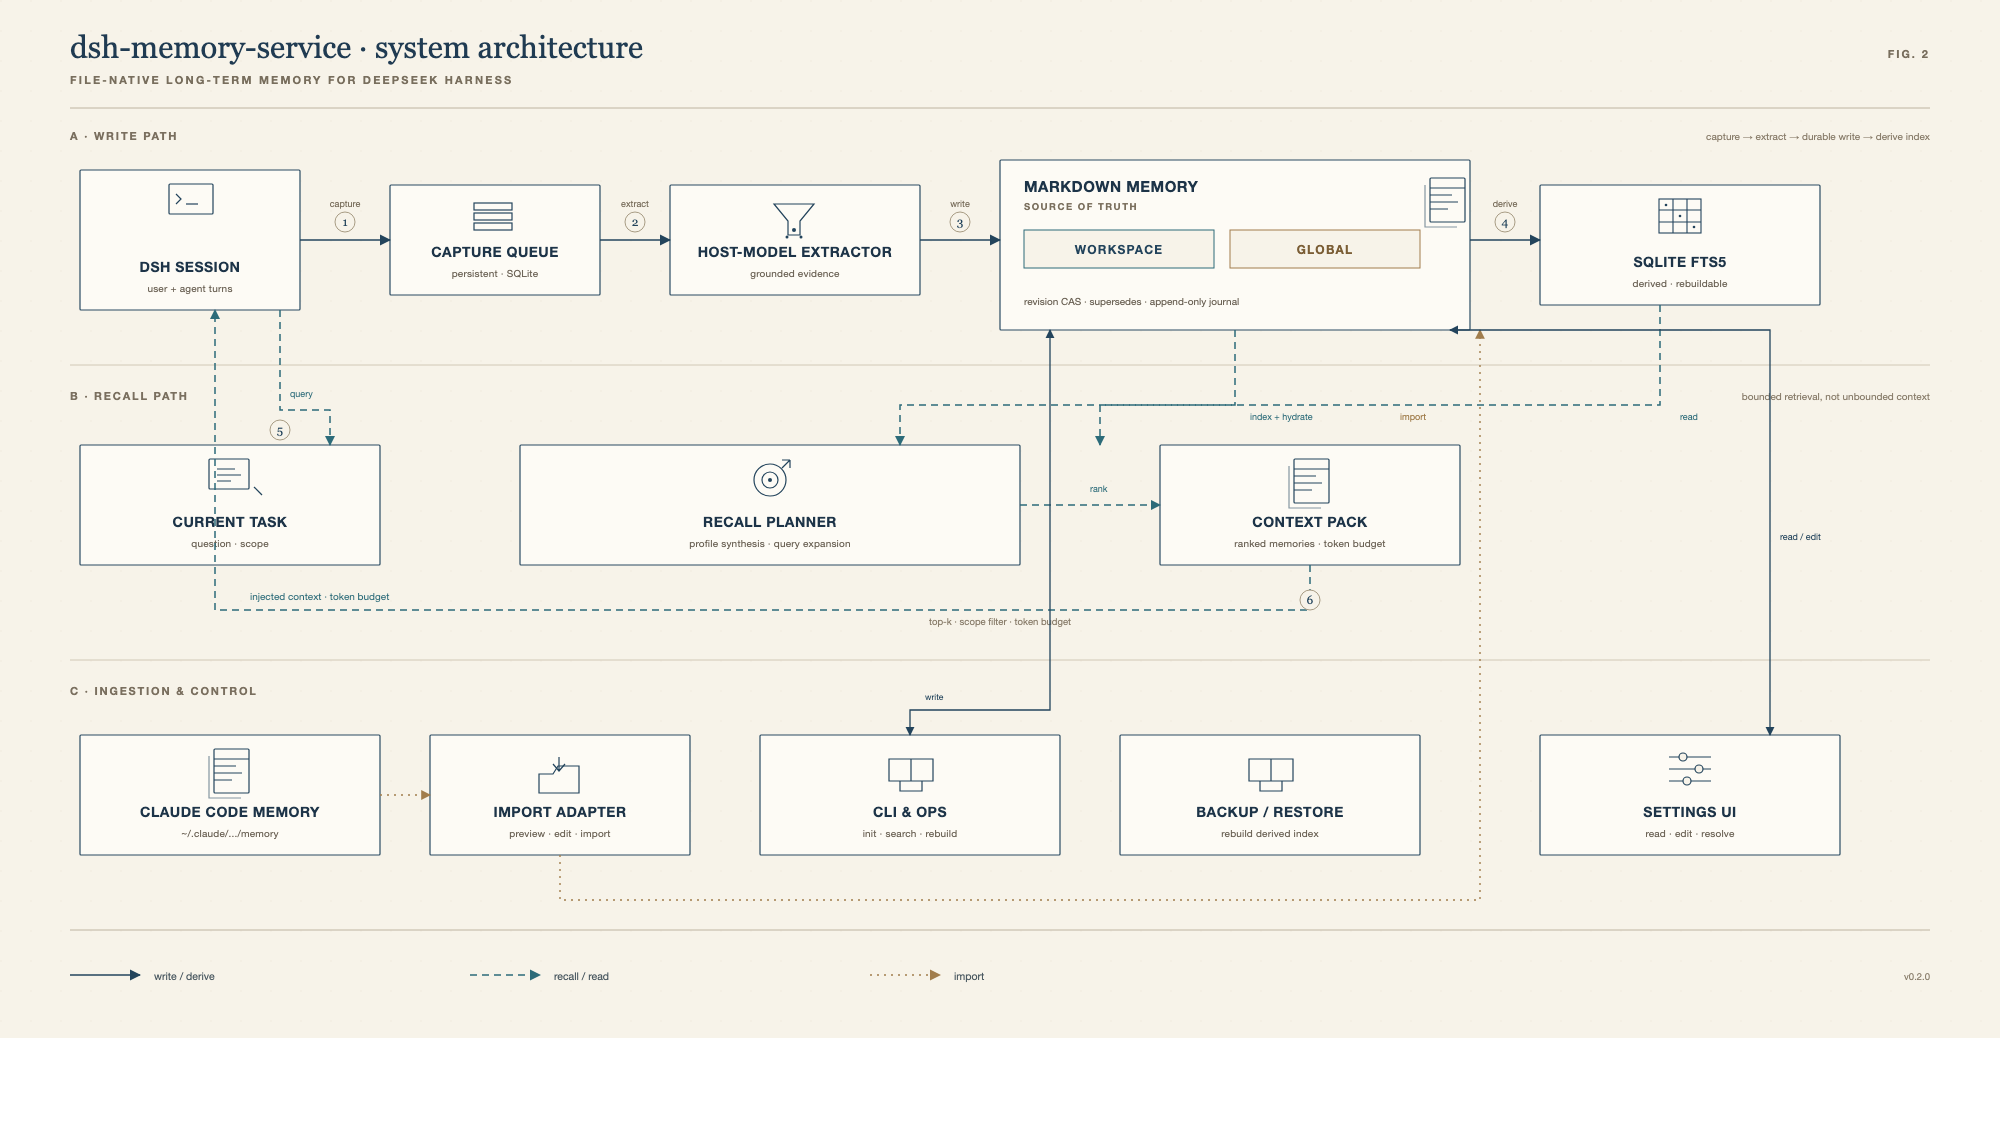
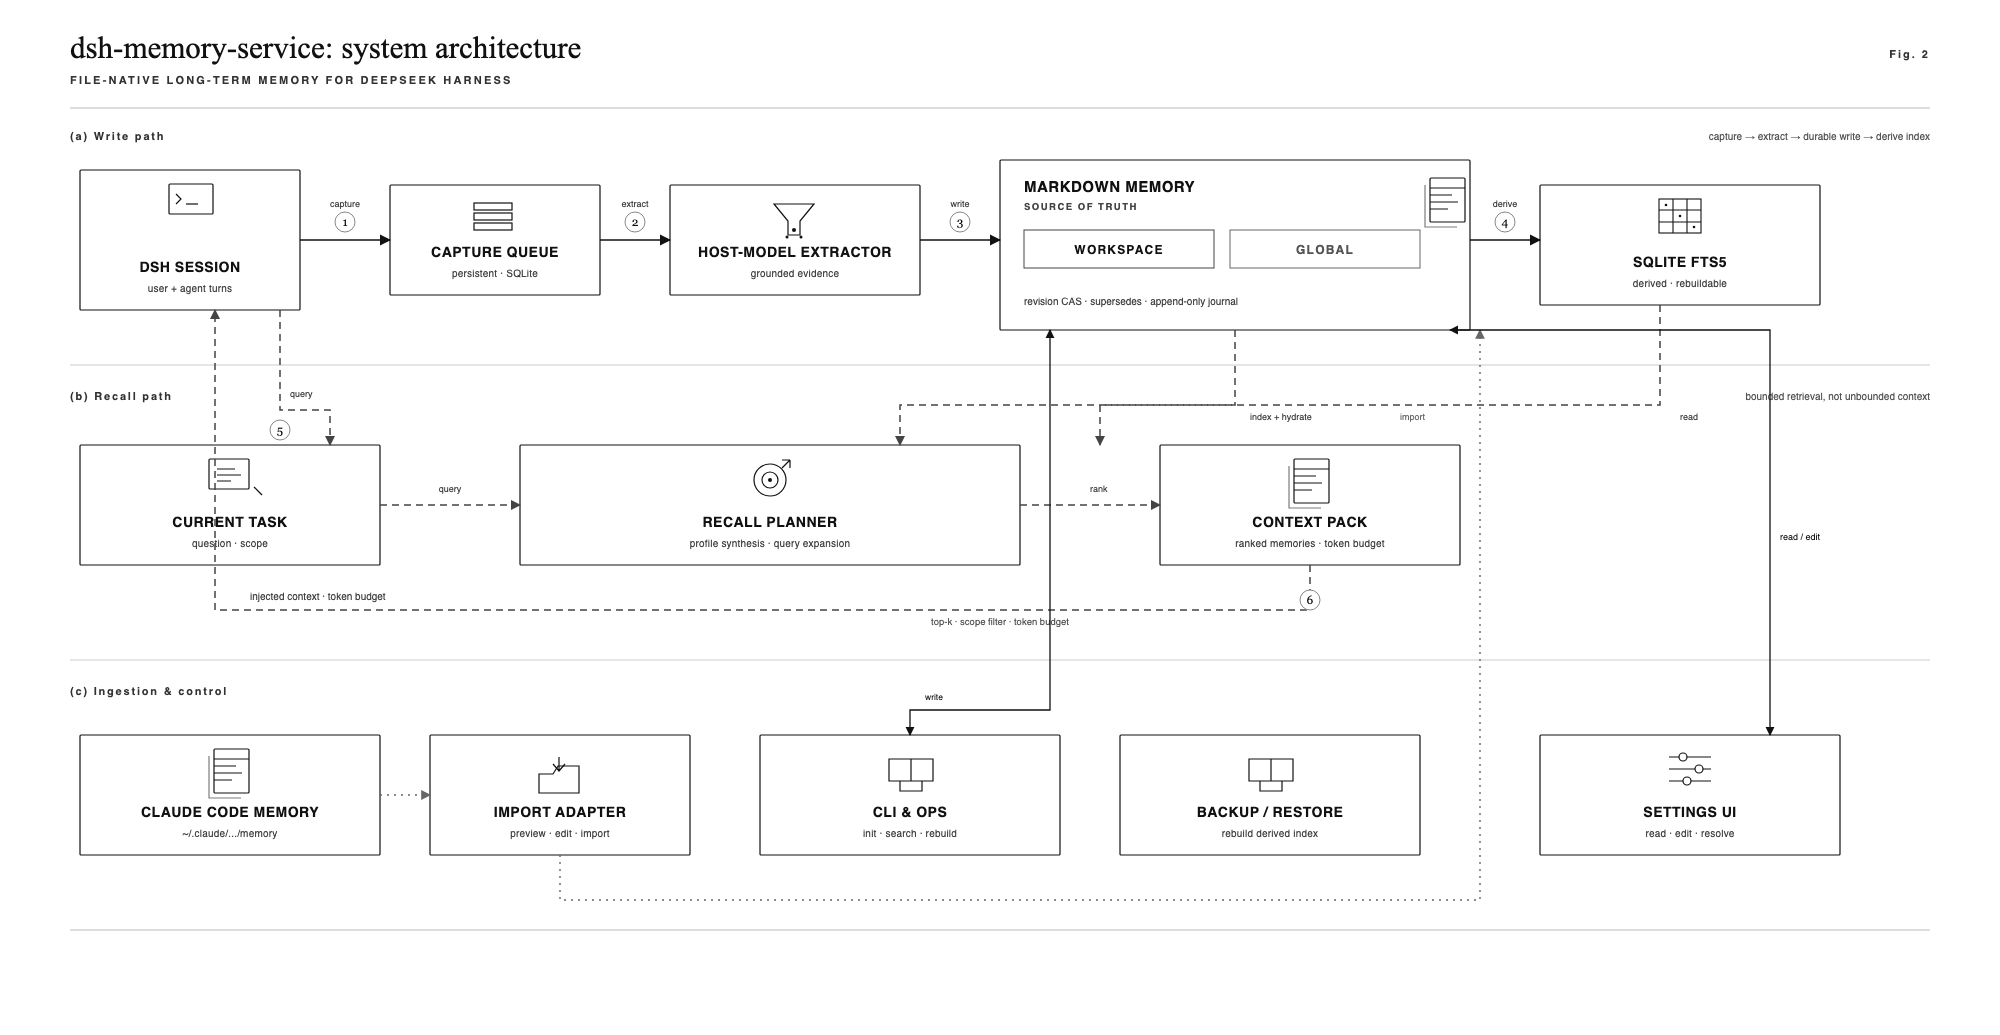
docs: restyle architecture as ccf-a monochrome figure

diff --git a/README.md b/README.md
@@ -2,7 +2,7 @@
 
 <img src="docs/assets/readme-hero.png" alt="DeepSeek Harness 长期记忆系统学术风格示意图" width="100%" />
 
-<p align="center"><sub><b>Figure 1 · System overview / 图 1 · 系统总览.</b> <b>Legend / 图例：</b> 点状流 → 会话事件；同心漏斗 → 有证据的抽取与过滤；卡片 → 持久化的 Markdown 记忆；节点网络 → FTS5 检索与相关性；曲线箭头 → 受 token 预算约束的上下文注入；嵌套框 → workspace / global 双作用域；左下角圆点 → Claude Code 导入端口。</sub></p>
+<p align="center"><sub><b>Fig. 1. Visual abstract.</b> <b>Legend / 图例：</b> 点状流 → 会话事件；同心漏斗 → 有证据的抽取与过滤；卡片 → 持久化的 Markdown 记忆；节点网络 → FTS5 检索与相关性；曲线箭头 → 受 token 预算约束的上下文注入；嵌套框 → workspace / global 双作用域；左下角圆点 → Claude Code 导入端口。</sub></p>
 
 # dsh-memory-service
 
@@ -52,7 +52,7 @@
 
 ![dsh-memory-service 系统架构](docs/assets/architecture-figure.png)
 
-<p align="center"><sub><b>Figure 2 · System architecture / 图 2 · 系统架构.</b> <b>Legend / 图例：</b>实线 = 捕获、写入与索引派生；虚线 = 召回、读取与上下文注入；点线 = Claude Code 导入；WORKSPACE 与 GLOBAL 为同级 scope；Markdown 是唯一真源，FTS5 索引可重建。<a href="docs/assets/architecture-figure.svg">SVG source</a></sub></p>
+<p align="center"><sub><b>Fig. 2. System architecture.</b> (a) <b>Write path:</b> session turns enter a persistent capture queue; the host-model extractor writes grounded candidates to Markdown memory; a rebuildable FTS5 index is derived. (b) <b>Recall path:</b> the current task queries the planner; profile synthesis, query expansion, Markdown hydration, and FTS5 retrieval produce a bounded context pack injected back into the session. (c) <b>Ingestion and control:</b> Claude Code memory is imported through a preview/edit adapter; CLI, backup/restore, and Settings UI operate on the same store. WORKSPACE and GLOBAL are sibling scopes; Markdown is the source of truth. Solid, dashed, and dotted arrows denote write/derive, read/recall, and import, respectively. <a href="docs/assets/architecture-figure.svg">SVG source</a></sub></p>
 
 **一句话数据流：** 会话事件先进入持久队列，宿主模型抽取有证据的候选，写入 Markdown 真源；索引负责可搜索，召回层再按 scope、相关性和 token 预算把一部分记忆注入下一轮。
 
